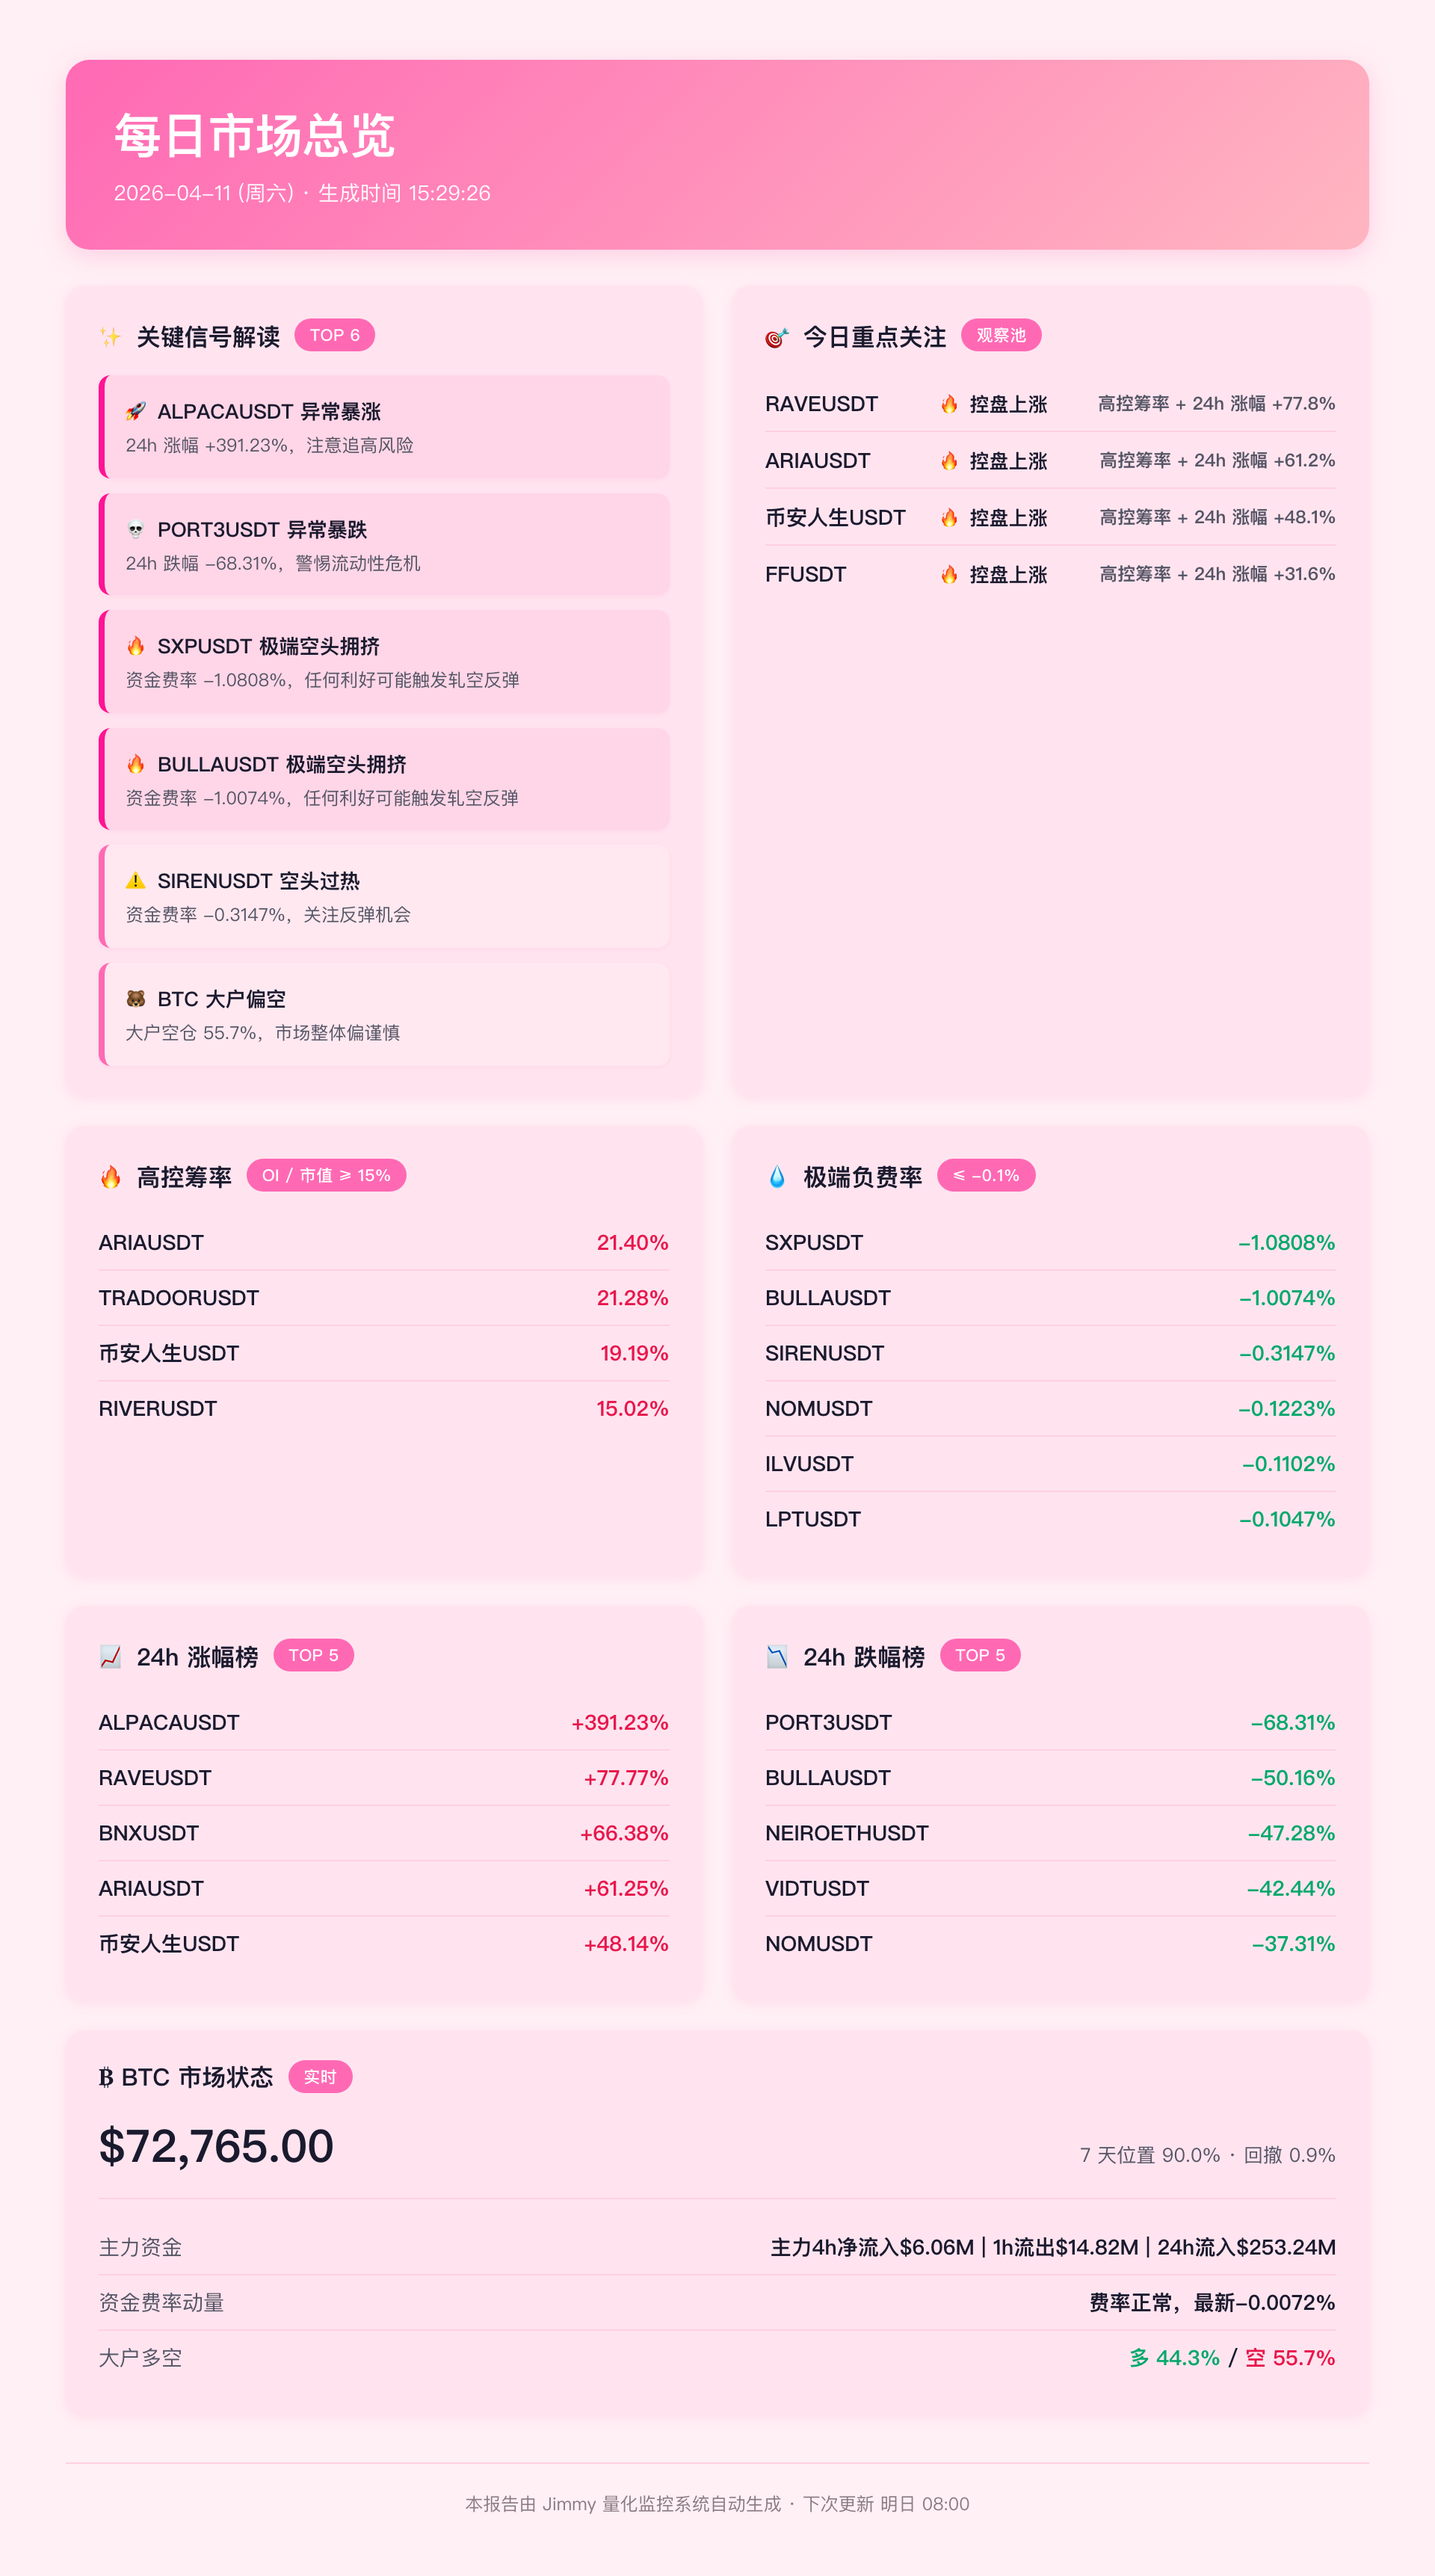
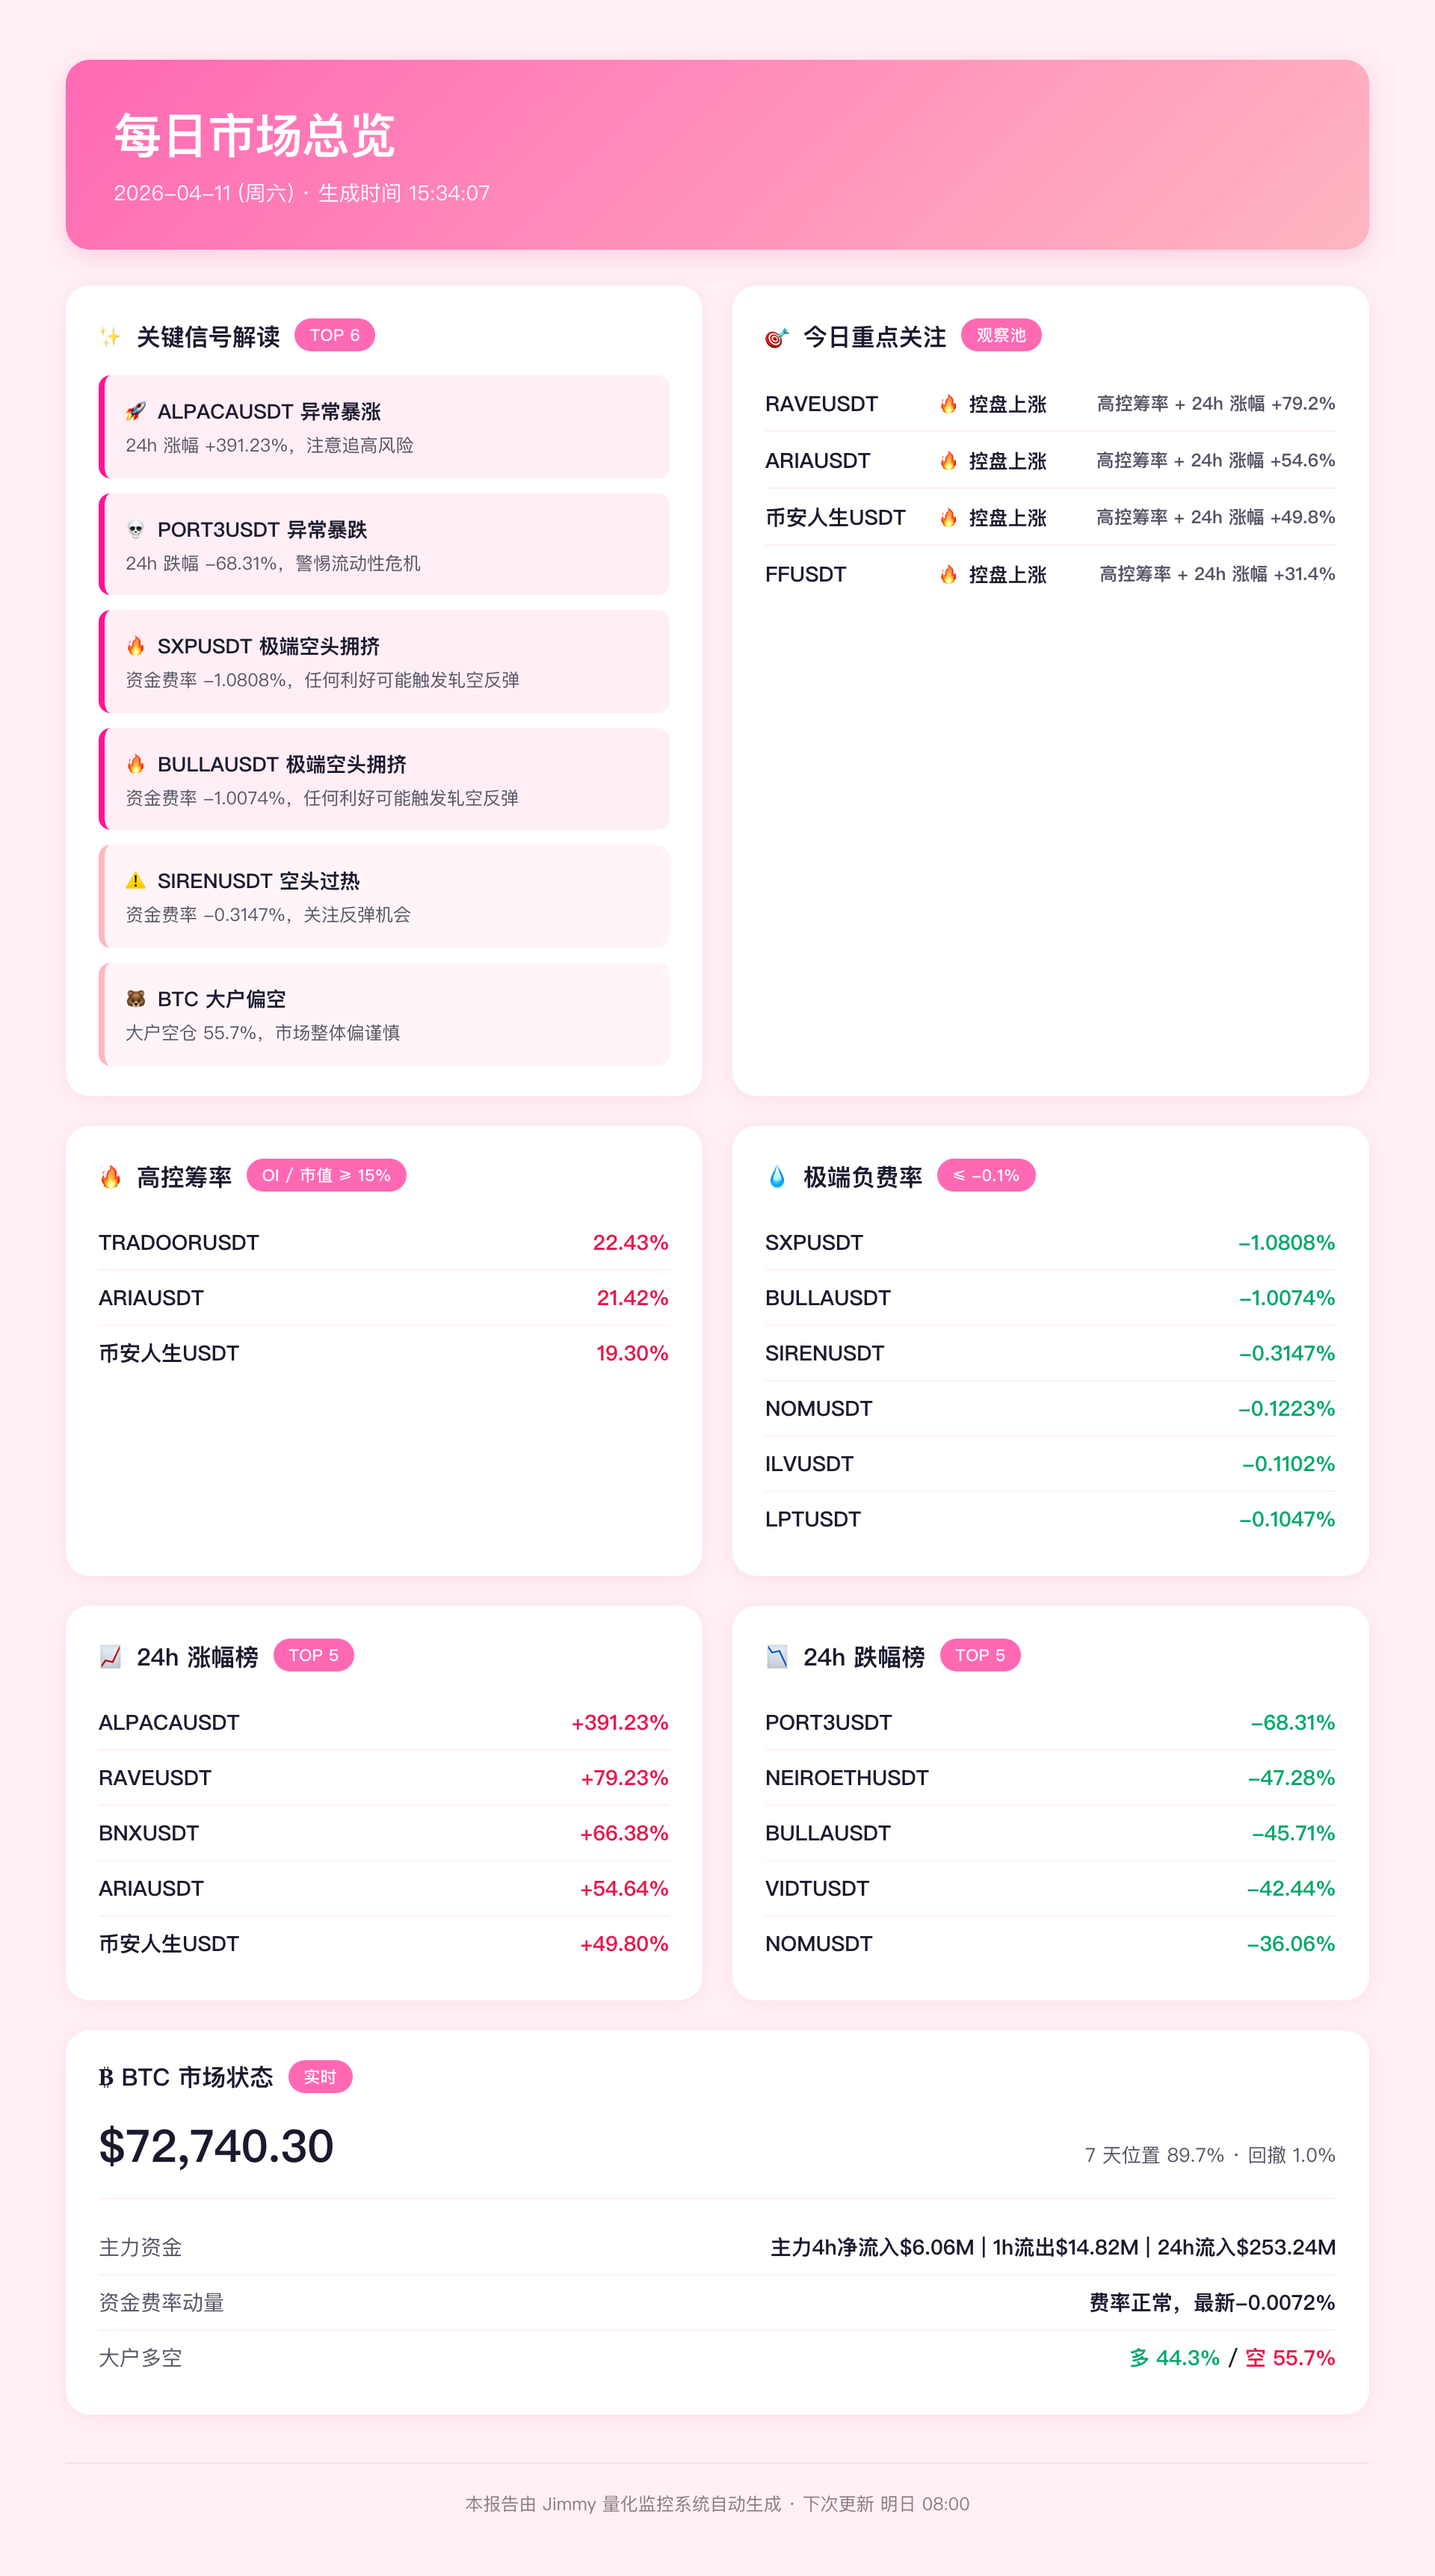
自动同步监测报告 2026-04-11 15:39:12

diff --git a/每日总览_2026-04-11.md b/每日总览_2026-04-11.md
@@ -1,13 +1,12 @@
 # 每日市场总览 2026-04-11
-生成时间：15:29
+生成时间：15:34
 
 ## 市场扫描
 
 ### 高控筹率（OI/MC ≥ 15%）
+- TRADOORUSDT: 22.4%
 - ARIAUSDT: 21.4%
-- TRADOORUSDT: 21.3%
-- 币安人生USDT: 19.2%
-- RIVERUSDT: 15.0%
+- 币安人生USDT: 19.3%
 
 ### 极端负费率（≤ -0.1%）
 - SXPUSDT: -1.0808%
@@ -19,17 +18,17 @@
 
 ### 24h 涨幅榜 TOP 5
 - ALPACAUSDT: +391.23%
-- RAVEUSDT: +77.77%
+- RAVEUSDT: +79.23%
 - BNXUSDT: +66.38%
-- ARIAUSDT: +61.25%
-- 币安人生USDT: +48.14%
+- ARIAUSDT: +54.64%
+- 币安人生USDT: +49.80%
 
 ### 24h 跌幅榜 TOP 5
 - PORT3USDT: -68.31%
-- BULLAUSDT: -50.16%
 - NEIROETHUSDT: -47.28%
+- BULLAUSDT: -45.71%
 - VIDTUSDT: -42.44%
-- NOMUSDT: -37.31%
+- NOMUSDT: -36.06%
 
 ## 关键信号解读
 - 🚀 **ALPACAUSDT 异常暴涨**: 24h 涨幅 +391.23%，注意追高风险
@@ -40,13 +39,13 @@
 - 🐻 **BTC 大户偏空**: 大户空仓 55.7%，市场整体偏谨慎
 
 ## 今日重点关注
-- RAVEUSDT | 🔥 控盘上涨 | 高控筹率 + 24h 涨幅 +77.8%
-- ARIAUSDT | 🔥 控盘上涨 | 高控筹率 + 24h 涨幅 +61.2%
-- 币安人生USDT | 🔥 控盘上涨 | 高控筹率 + 24h 涨幅 +48.1%
-- FFUSDT | 🔥 控盘上涨 | 高控筹率 + 24h 涨幅 +31.6%
+- RAVEUSDT | 🔥 控盘上涨 | 高控筹率 + 24h 涨幅 +79.2%
+- ARIAUSDT | 🔥 控盘上涨 | 高控筹率 + 24h 涨幅 +54.6%
+- 币安人生USDT | 🔥 控盘上涨 | 高控筹率 + 24h 涨幅 +49.8%
+- FFUSDT | 🔥 控盘上涨 | 高控筹率 + 24h 涨幅 +31.4%
 
 ## BTC 市场状态
-- 当前价: $72,765.00 | 7 天位置: 90.0% | 回撤: 0.9%
+- 当前价: $72,740.30 | 7 天位置: 89.7% | 回撤: 1.0%
 - 主力资金: 主力4h净流入$6.06M | 1h流出$14.82M | 24h流入$253.24M
 - 资金费率动量: 费率正常，最新-0.0072%
 - 大户多空: 多 44.3% / 空 55.7%
